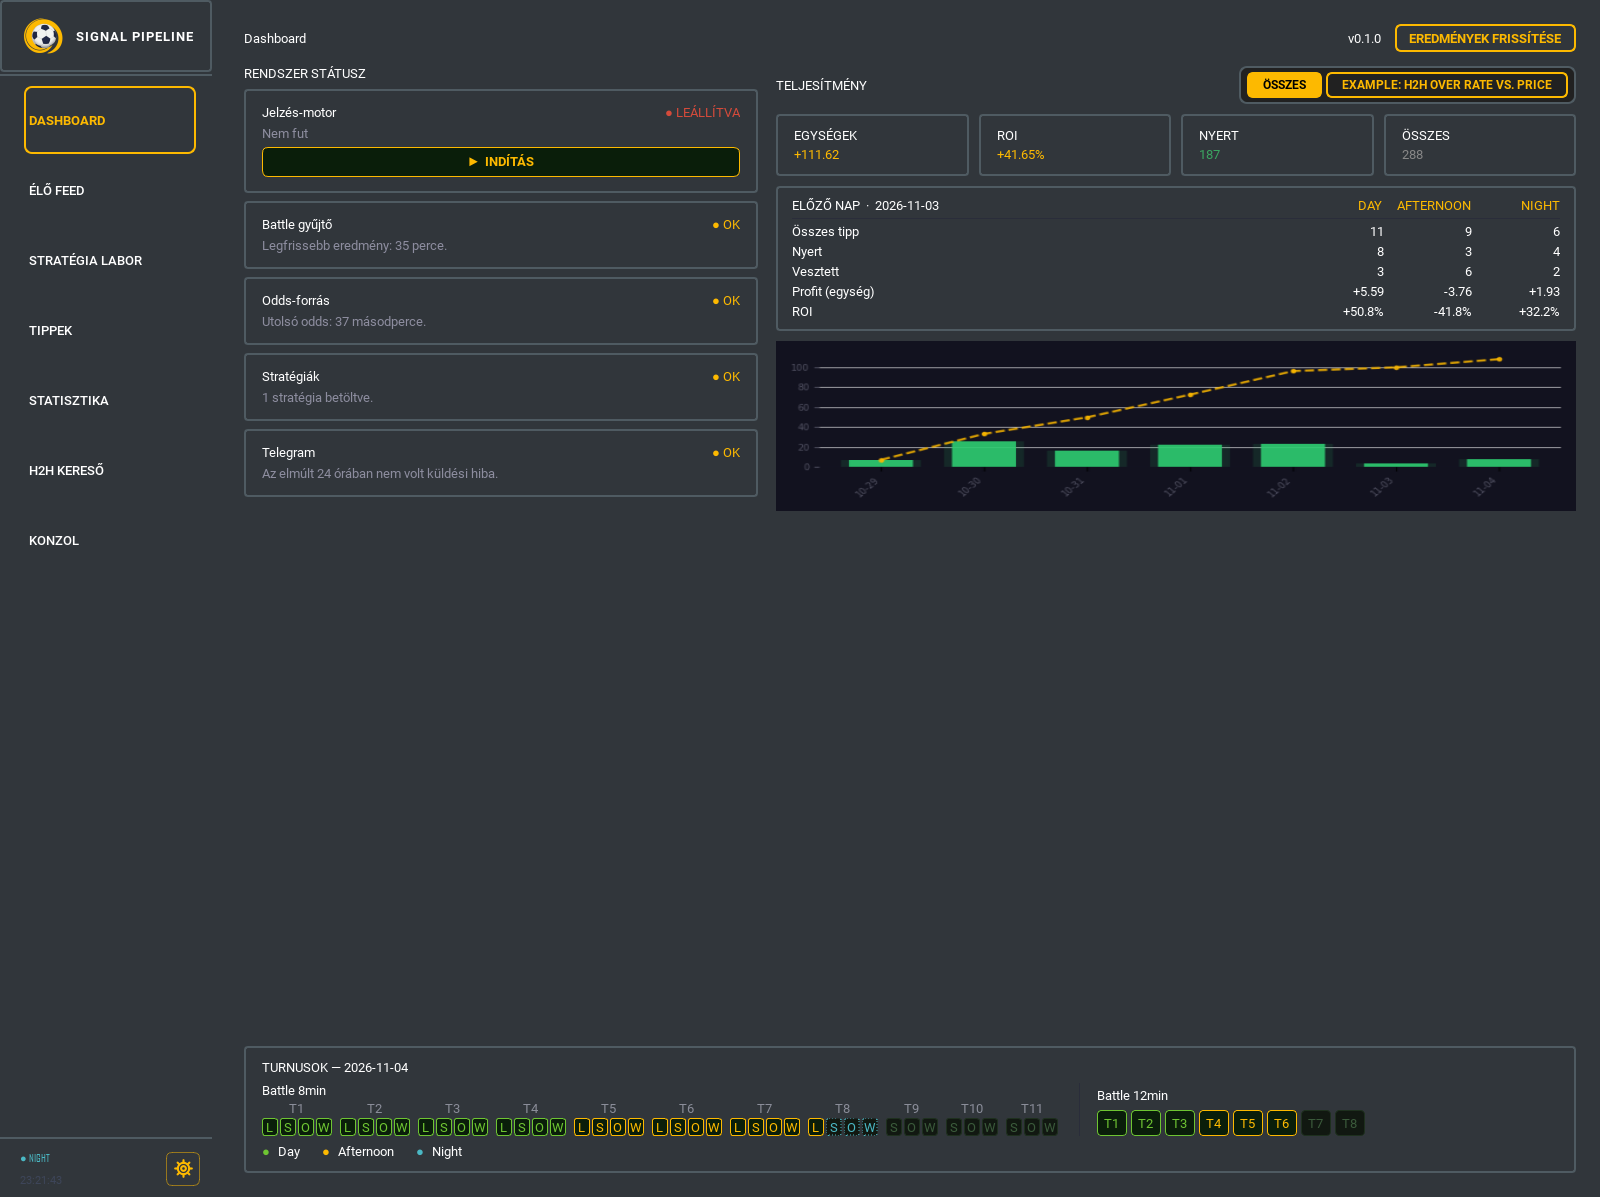
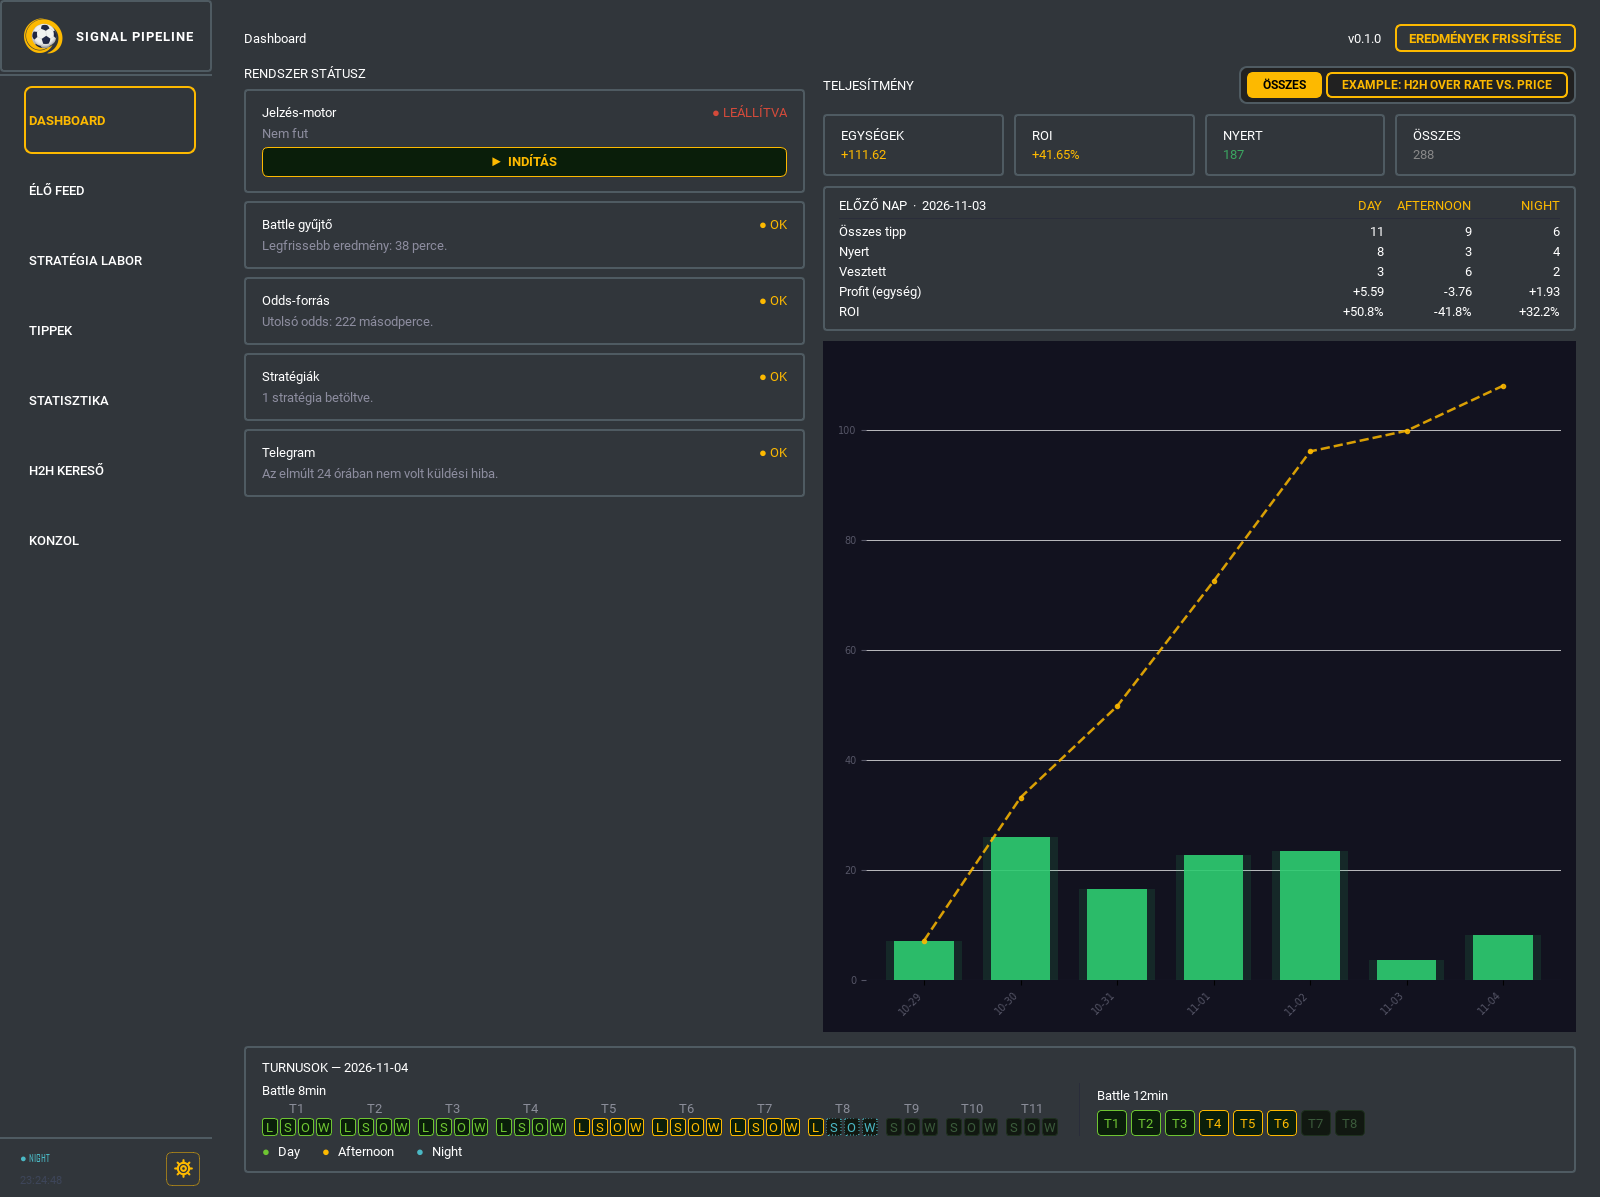
Ship the block schedule; dashboard chart fills the free height
The data/ ignore pattern also excluded src/signal_pipeline/data/menetrend.json,
so a fresh clone had no schedule; only the root data/ folder is ignored now.
The 7-day chart now takes the free height of the column and re-renders at its
real size, instead of leaving an empty gap above the turnus bar.

Claude-Session: https://claude.ai/code/session_01XgmroCC6Eqr6oGJaabNQDe

diff --git a/src/signal_pipeline/ui/widgets.py b/src/signal_pipeline/ui/widgets.py
@@ -544,18 +544,18 @@ class LastDayCard(QFrame):
 
 class MiniChart(QLabel):
     """Daily profit bars + cumulative dashed line, rendered with matplotlib's Agg backend into
-    a QLabel (no native window), exactly like the original dashboard. Optional: without
-    matplotlib the label just stays empty."""
+    a QLabel (no native window), like the original dashboard. It fills the free height of the
+    column and re-renders at its real size. Optional: without matplotlib it stays empty."""
 
     BG = "#12121f"
 
     def __init__(self):
         super().__init__()
-        self.setMinimumHeight(130)
-        self.setMaximumHeight(170)
-        self.setScaledContents(True)
+        self.setMinimumHeight(150)
+        self.setAlignment(Qt.AlignmentFlag.AlignCenter)
         self.setStyleSheet(f"background: {self.BG}; border-radius: 4px;")
-        self.setSizePolicy(QSizePolicy.Policy.Expanding, QSizePolicy.Policy.Fixed)
+        self.setSizePolicy(QSizePolicy.Policy.Expanding, QSizePolicy.Policy.Expanding)
+        self._days: list[tuple[str, float]] = []
         try:
             from matplotlib.backends.backend_agg import FigureCanvasAgg
             from matplotlib.figure import Figure
@@ -566,9 +566,20 @@ class MiniChart(QLabel):
         self.ax = self.fig.add_subplot(111)
         self.canvas = FigureCanvasAgg(self.fig)
 
+    def resizeEvent(self, event) -> None:
+        super().resizeEvent(event)
+        self._render()
+
     def draw(self, days: list[tuple[str, float]]) -> None:
-        if self.fig is None:
+        if days != self._days:
+            self._days = days
+            self._render()
+
+    def _render(self) -> None:
+        if self.fig is None or self.width() < 50 or self.height() < 50:
             return
+        days = self._days
+        self.fig.set_size_inches(self.width() / 100, self.height() / 100)
         ax = self.ax
         ax.clear()
         ax.set_facecolor(self.BG)
@@ -582,18 +593,19 @@ class MiniChart(QLabel):
             c = "#2ecc71" if v >= 0 else "#e74c3c"
             ax.bar(i, v, color=c, width=0.62, alpha=0.9, zorder=3)
             ax.bar(i, v, color=c, width=0.78, alpha=0.12, zorder=2)
-        ax.plot(
-            x,
-            cumul,
-            color=ACCENT,
-            linewidth=1.8,
-            linestyle="--",
-            alpha=0.85,
-            zorder=4,
-            marker="o",
-            markersize=3,
-            markerfacecolor=ACCENT,
-        )
+        if y:
+            ax.plot(
+                x,
+                cumul,
+                color=ACCENT,
+                linewidth=1.8,
+                linestyle="--",
+                alpha=0.85,
+                zorder=4,
+                marker="o",
+                markersize=3,
+                markerfacecolor=ACCENT,
+            )
         ax.axhline(0, color="#333344", linewidth=0.8, zorder=1)
         ax.set_xticks(x)
         ax.set_xticklabels([d[5:] for d, _ in days], color="#555566", fontsize=7, rotation=45, ha="right")

diff --git a/src/signal_pipeline/ui/app.py b/src/signal_pipeline/ui/app.py
@@ -178,8 +178,7 @@ class DashboardView(ContentView):
         self.last_day = LastDayCard()
         right.addWidget(self.last_day)
         self.chart = MiniChart()
-        right.addWidget(self.chart)
-        right.addStretch()
+        right.addWidget(self.chart, 1)  # the chart takes the free height, like the original
         top.addLayout(right, 4)
         self.root.addLayout(top, 1)
 
